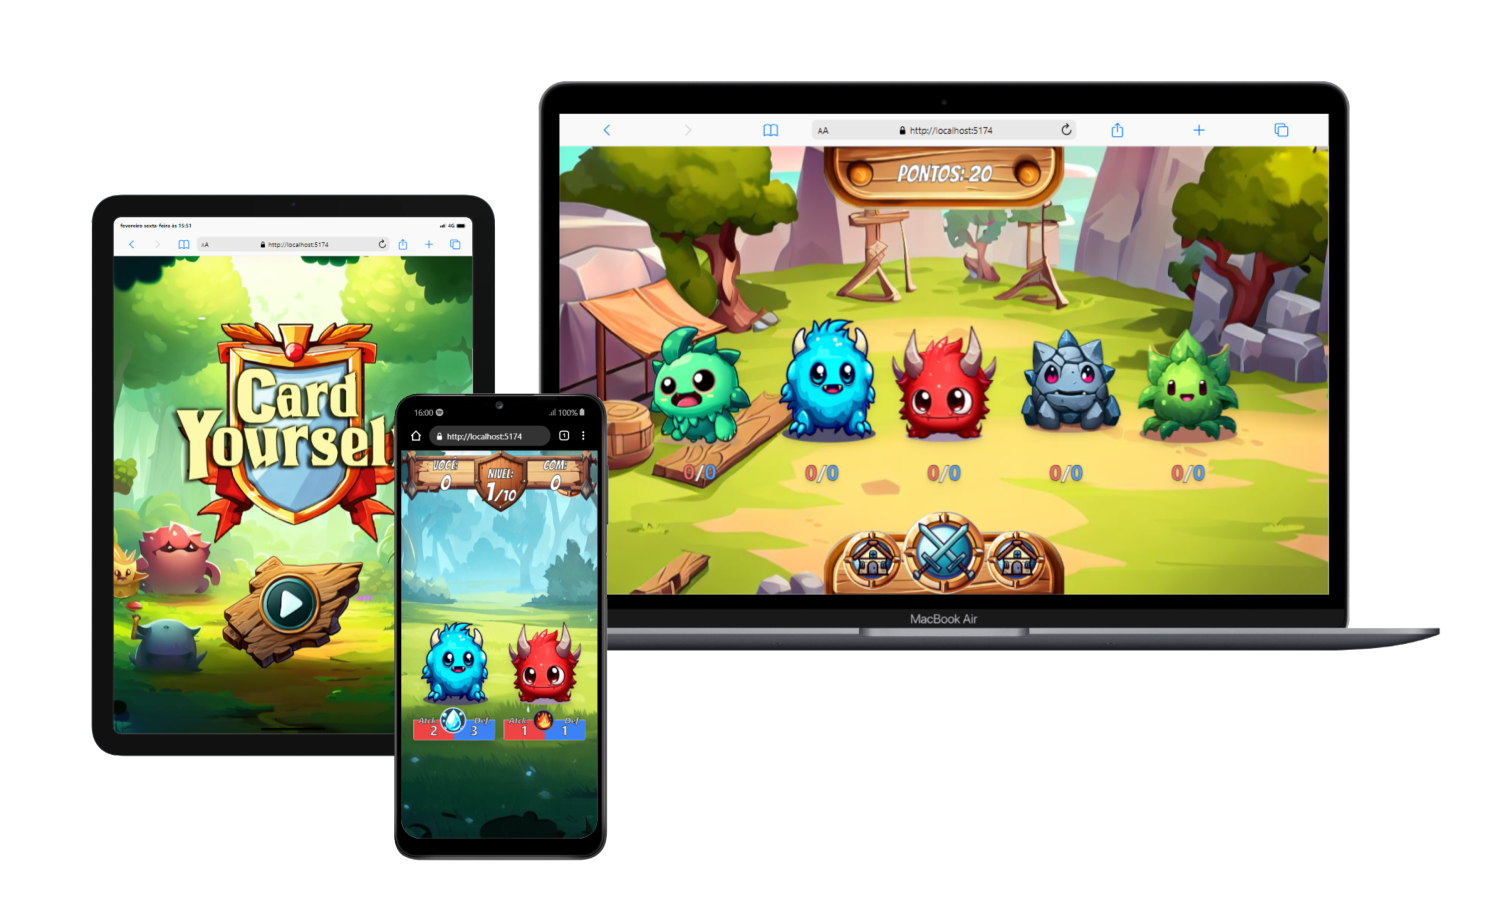
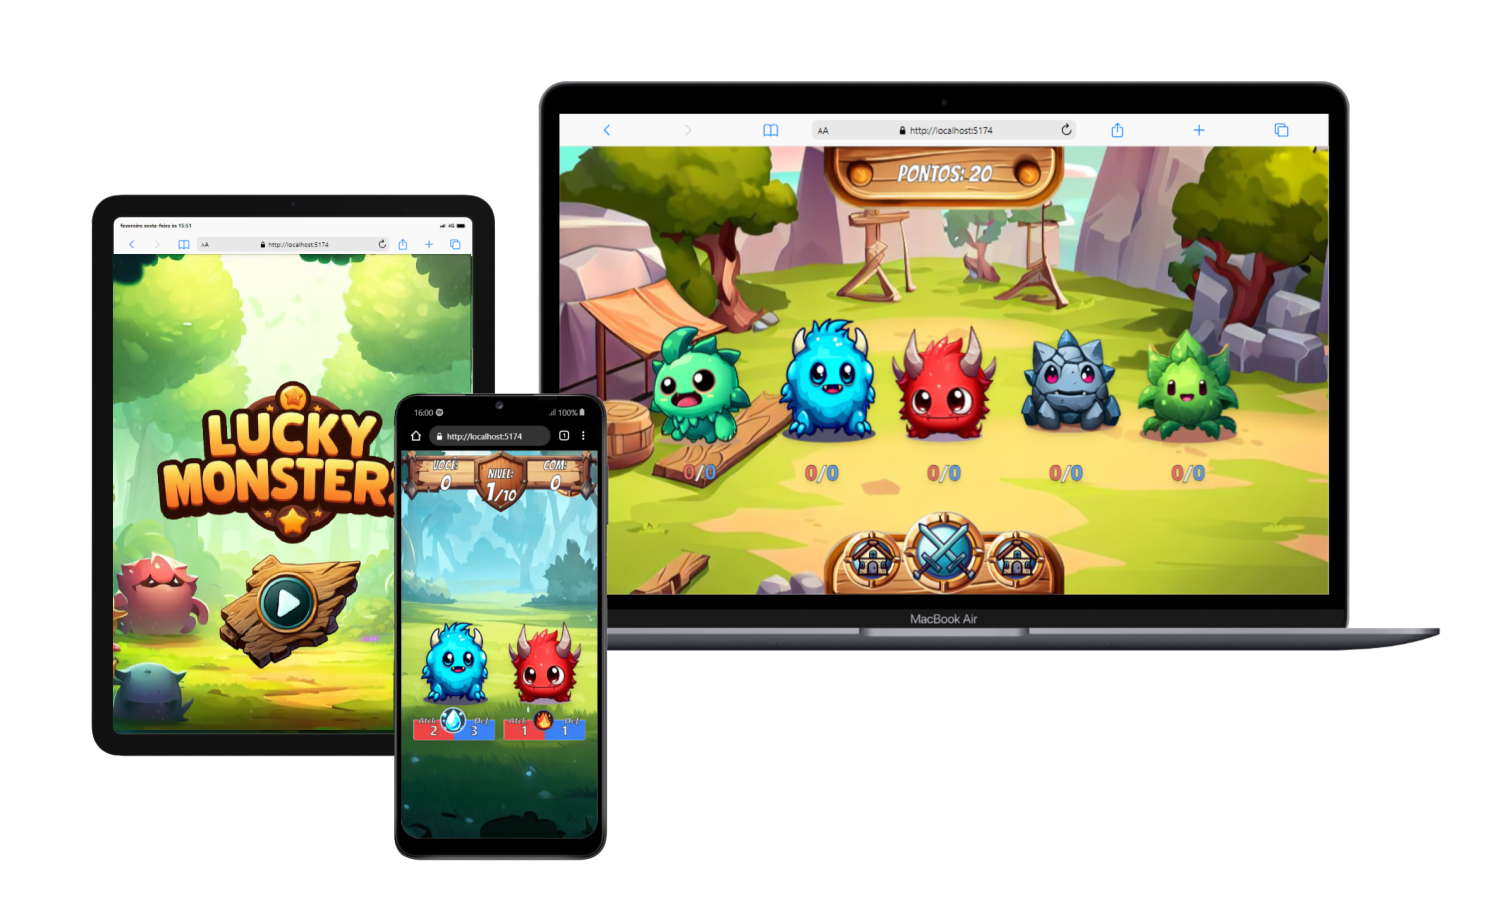
Atualização LuckyMonsters e link do ibv app

Changed region(s): [[0.0613, 0.2736, 0.3373, 0.7904]]

diff --git a/src/components/Home.vue b/src/components/Home.vue
@@ -82,6 +82,13 @@
         um banco de dados do firebase. A gestão é feita em um painal
         administrativo à parte. Estilizado com Styled Components.
       </h3>
+      <a
+        class="darkbutton"
+        data-aos="fade-right"
+        href="https://play.google.com/store/apps/details?id=com.fabiofg2023.myapp&hl=pt_BR"
+        target="_blank"
+        >INSTALAR (PlayStore)</a
+      >
       <img
         data-aos="fade-right"
         src="../assets/ibvapp.png"
@@ -132,7 +139,7 @@
         class="w-[100vw] lg:w-[80vw]"
       />
 
-      <h1 data-aos="fade-right" class="mt-[50px]">CARD YOURSELF</h1>
+      <h1 data-aos="fade-right" class="mt-[50px]">LUCKY MONSTERS</h1>
       <div class="iconArea" data-aos="fade-right">
         <img src="../assets/vite.png" alt="" class="icon" />
         <img src="../assets/vue2.png" alt="" class="icon" />
@@ -147,7 +154,7 @@
       <a
         class="darkbutton"
         data-aos="fade-right"
-        href="https://card-yourself.vercel.app"
+        href="https://lucky-monsters.vercel.app"
         target="_blank"
         >ACESSAR</a
       >
